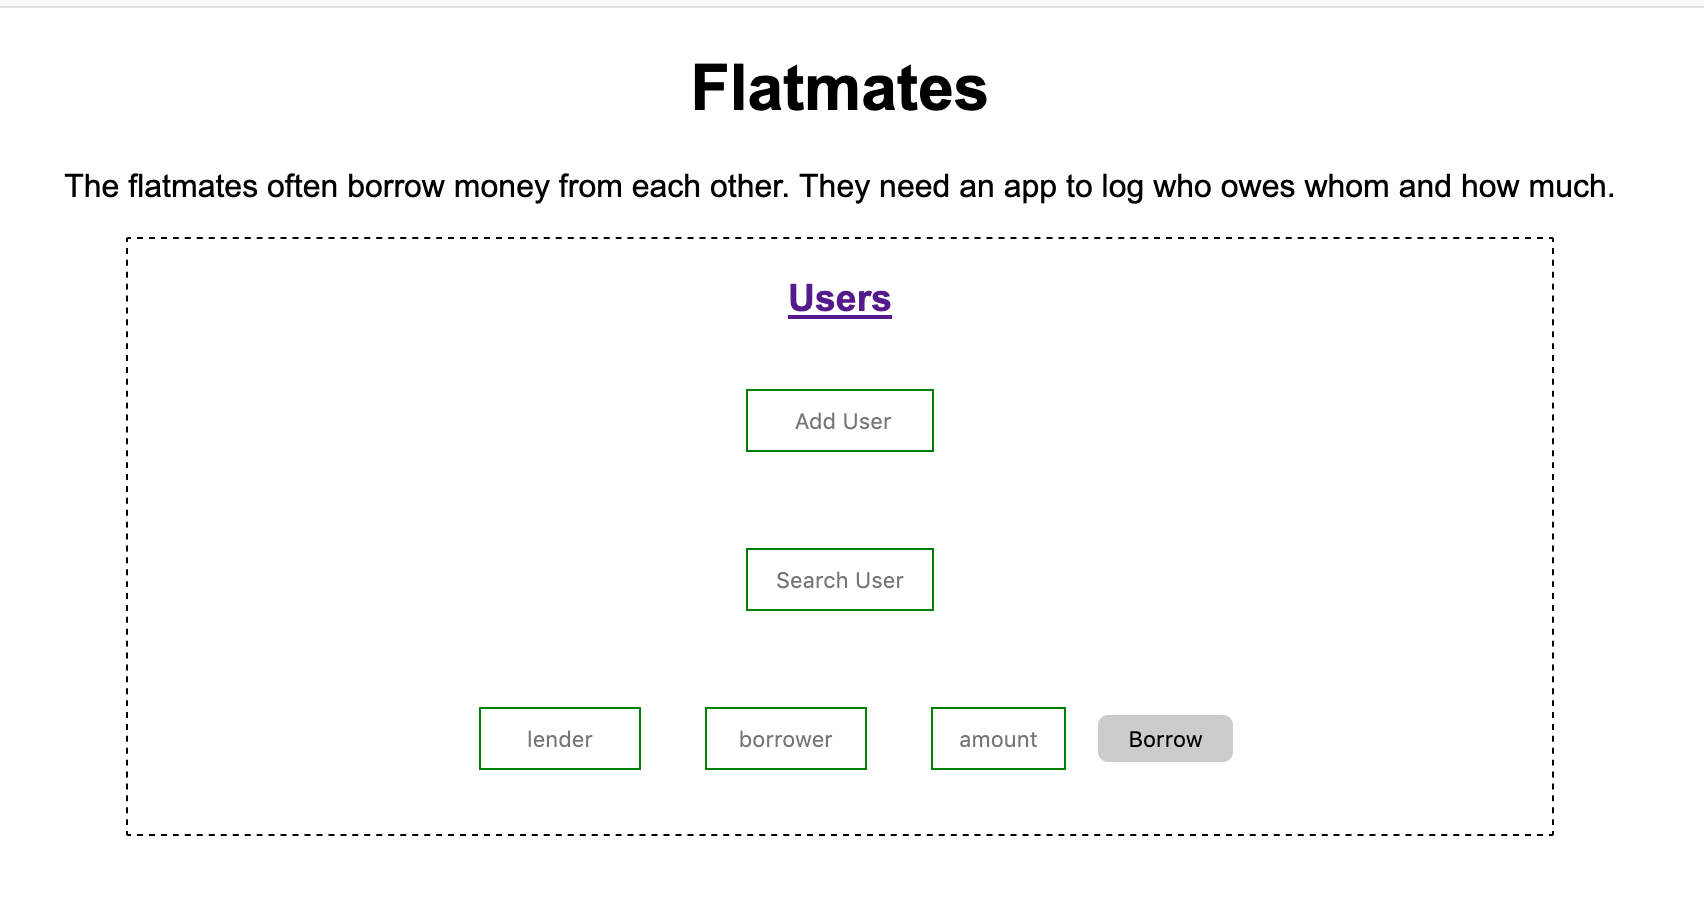
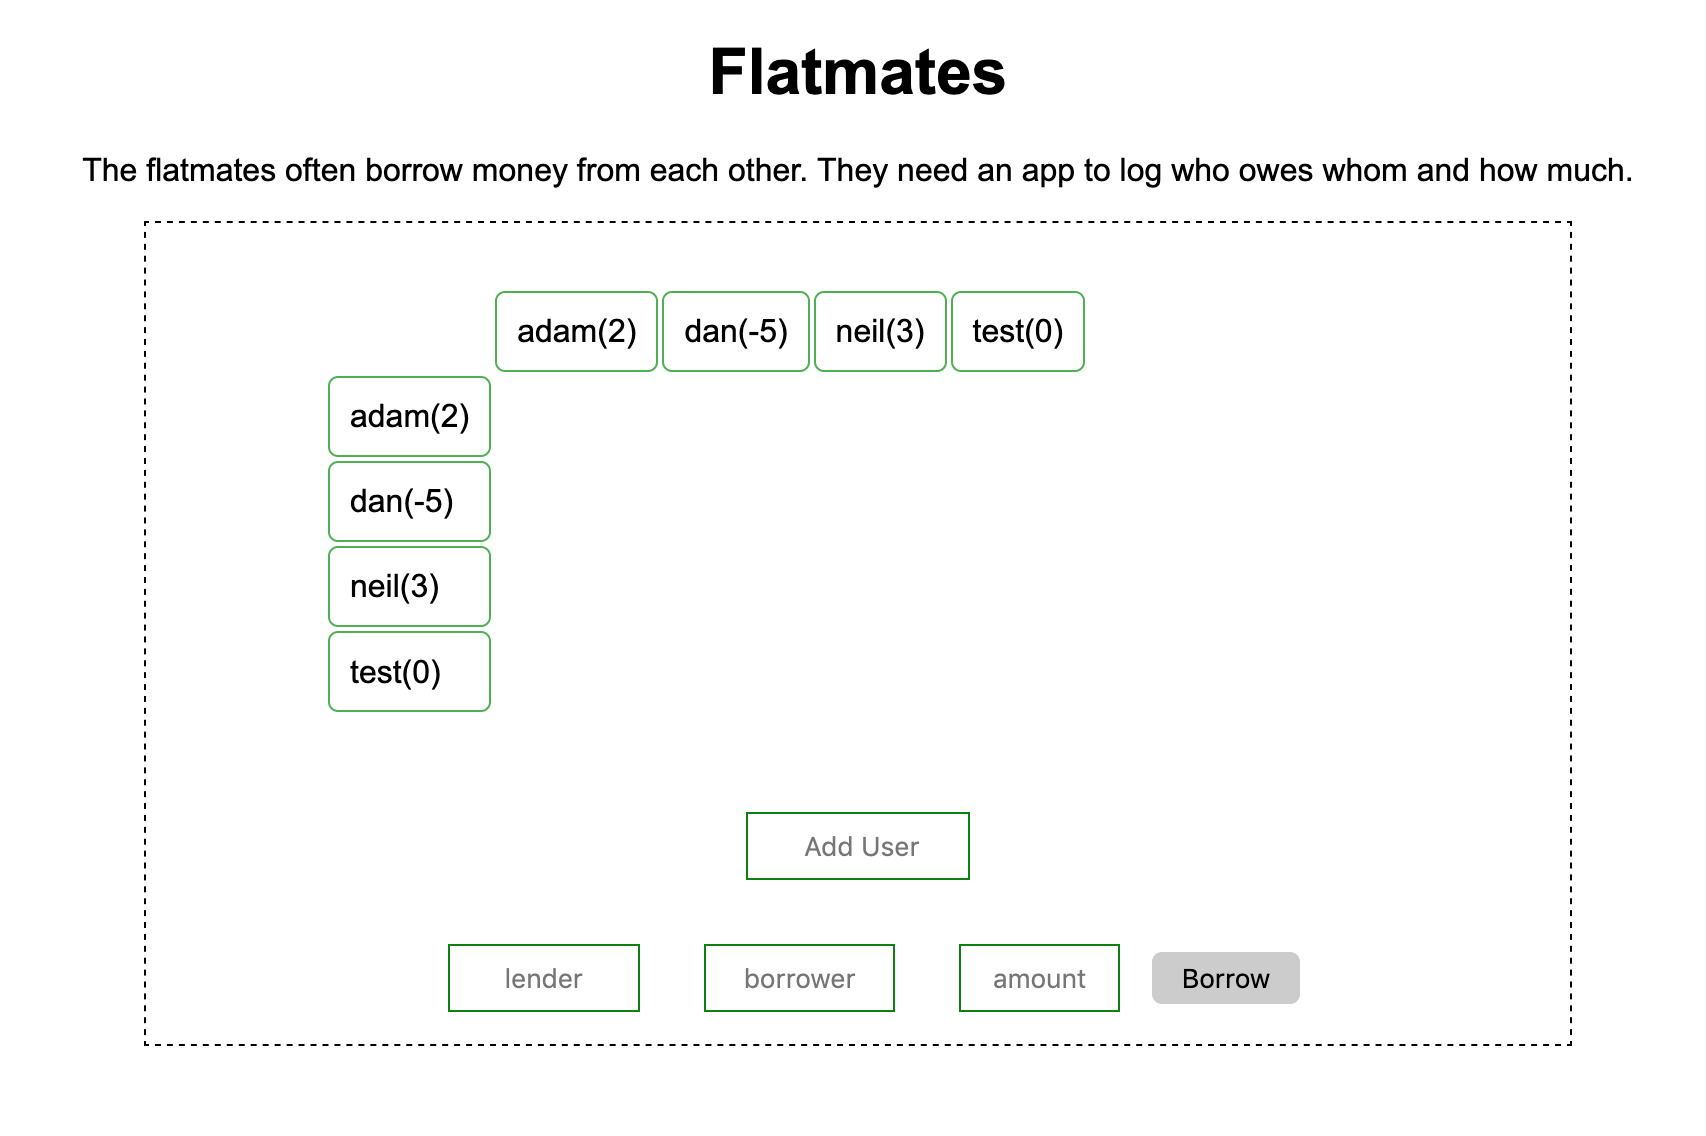
updated image of ui

diff --git a/README.md b/README.md
@@ -71,6 +71,3 @@ python3 server.py
 navigate to http://localhost:3000 in a browser
 
 
-## To Do: 
-
-load all the users and balances in a table without search
